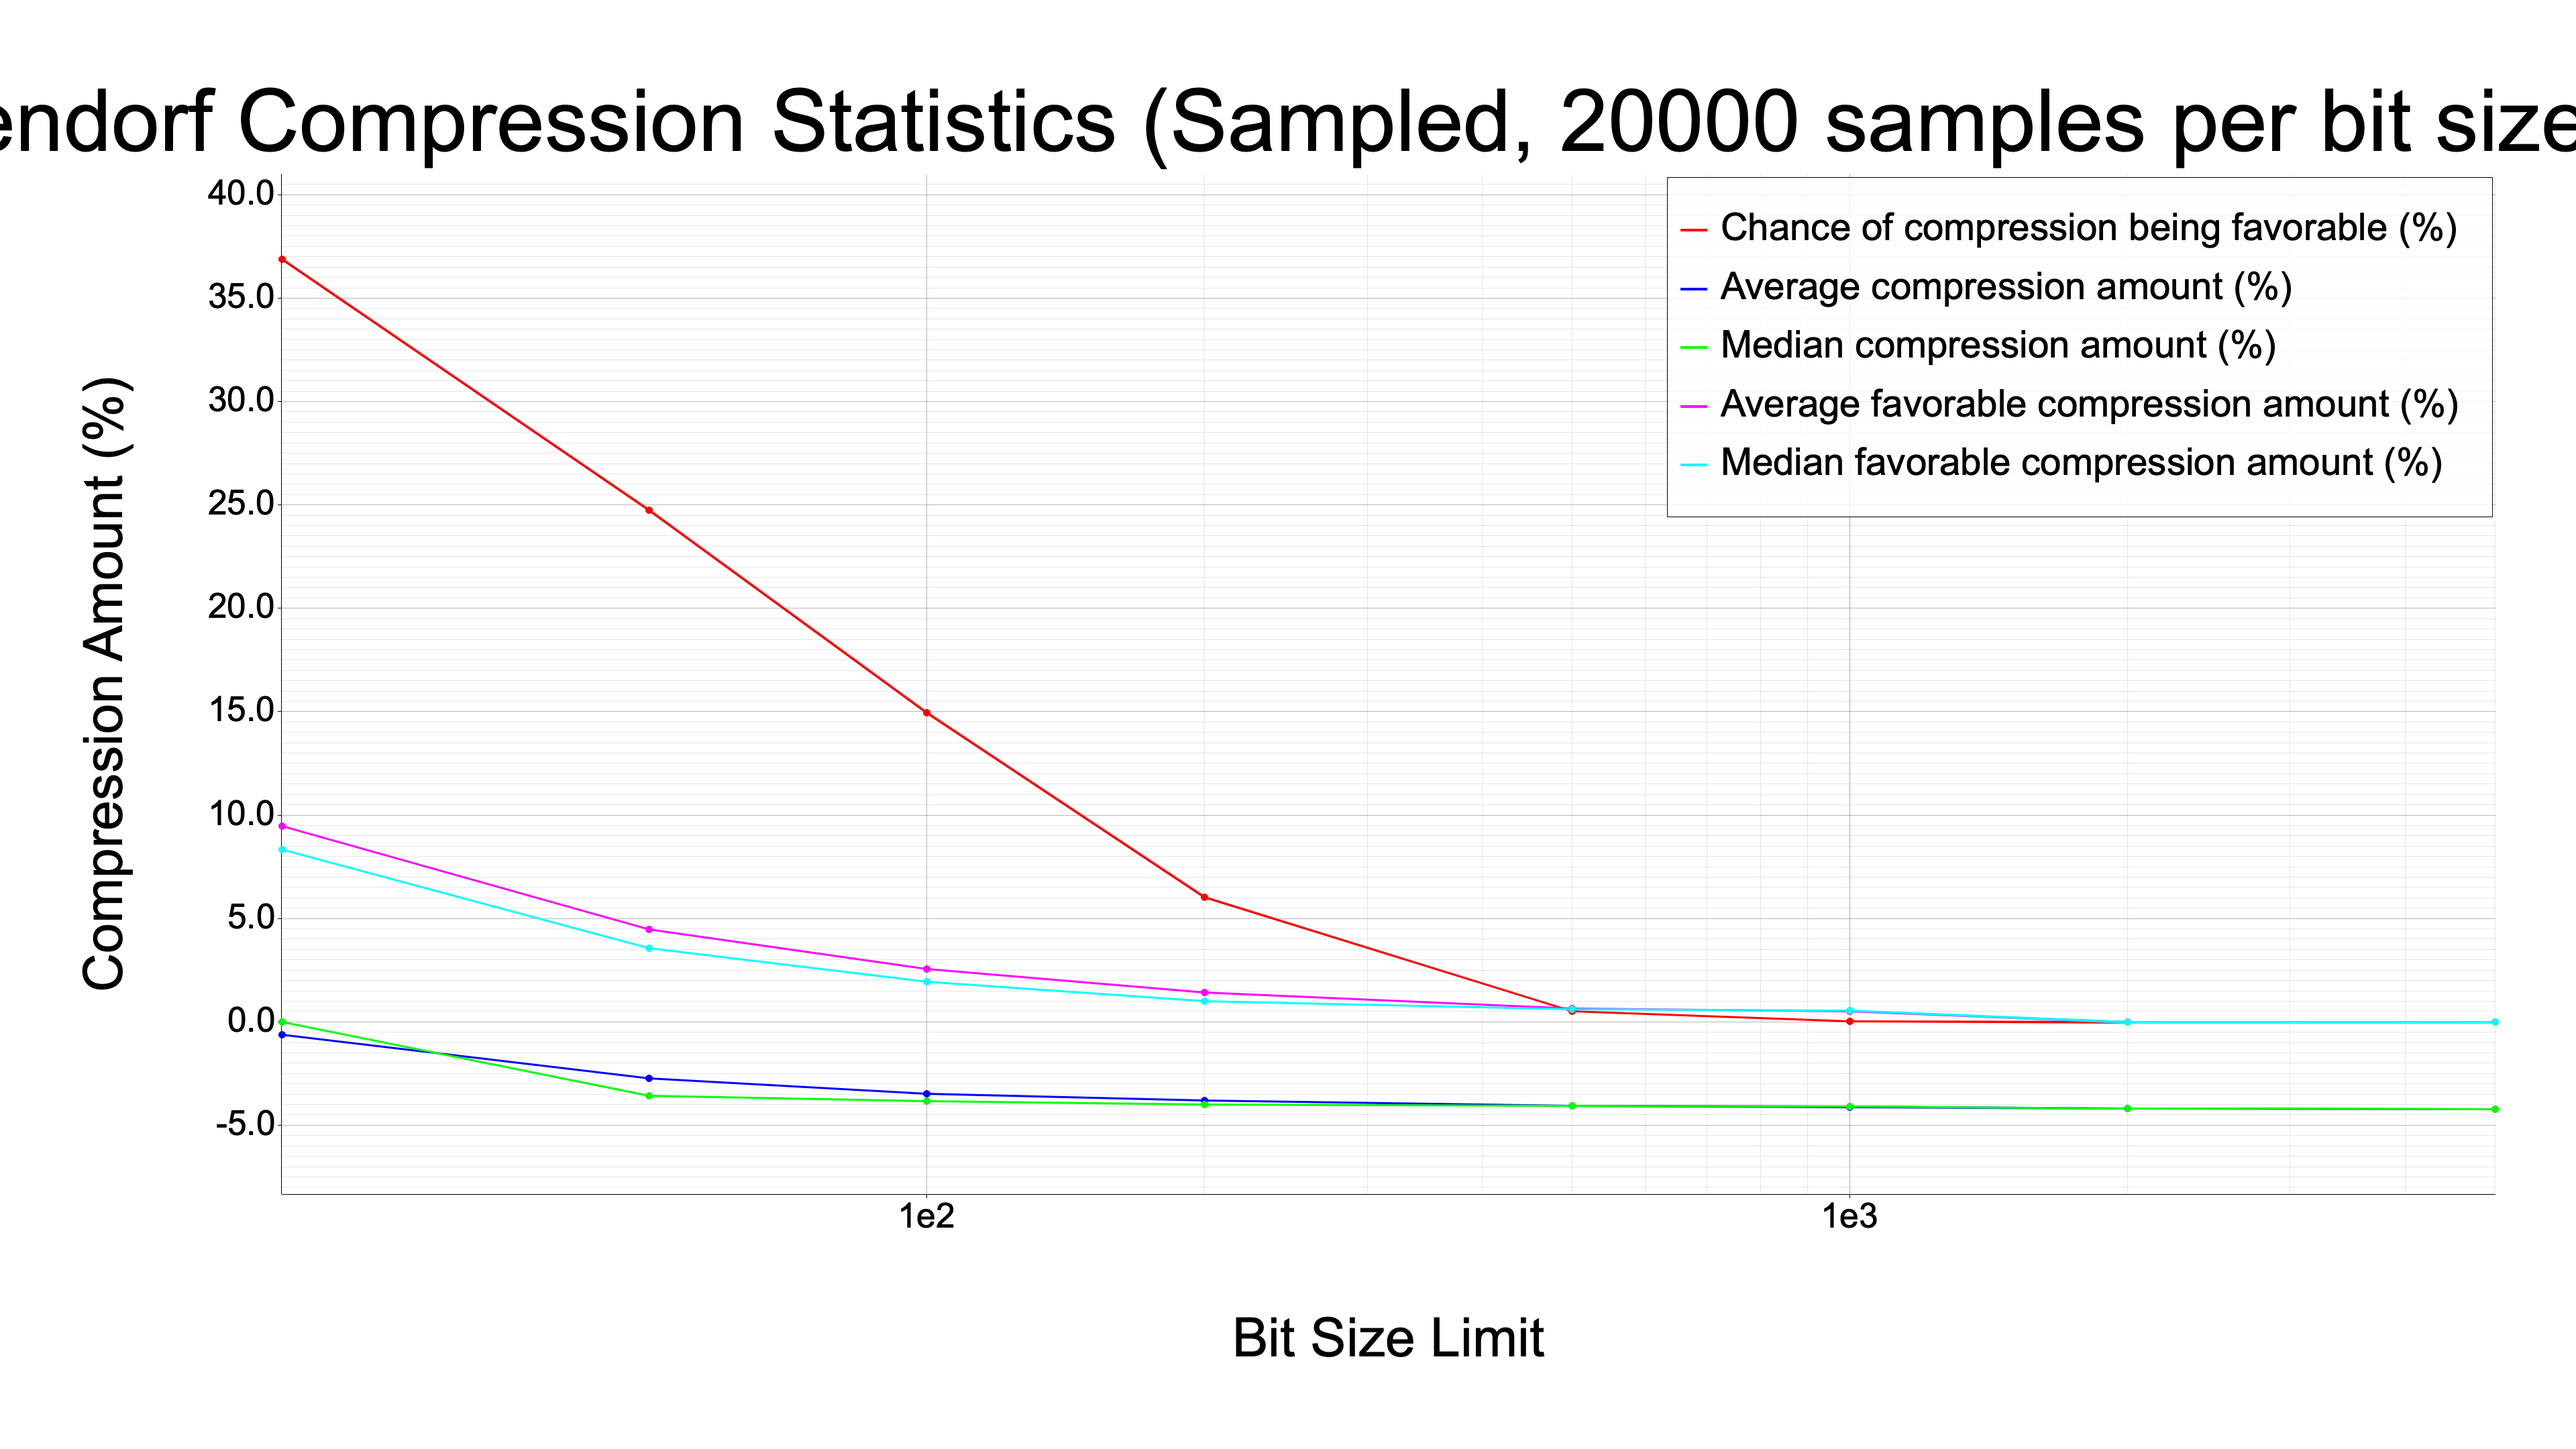
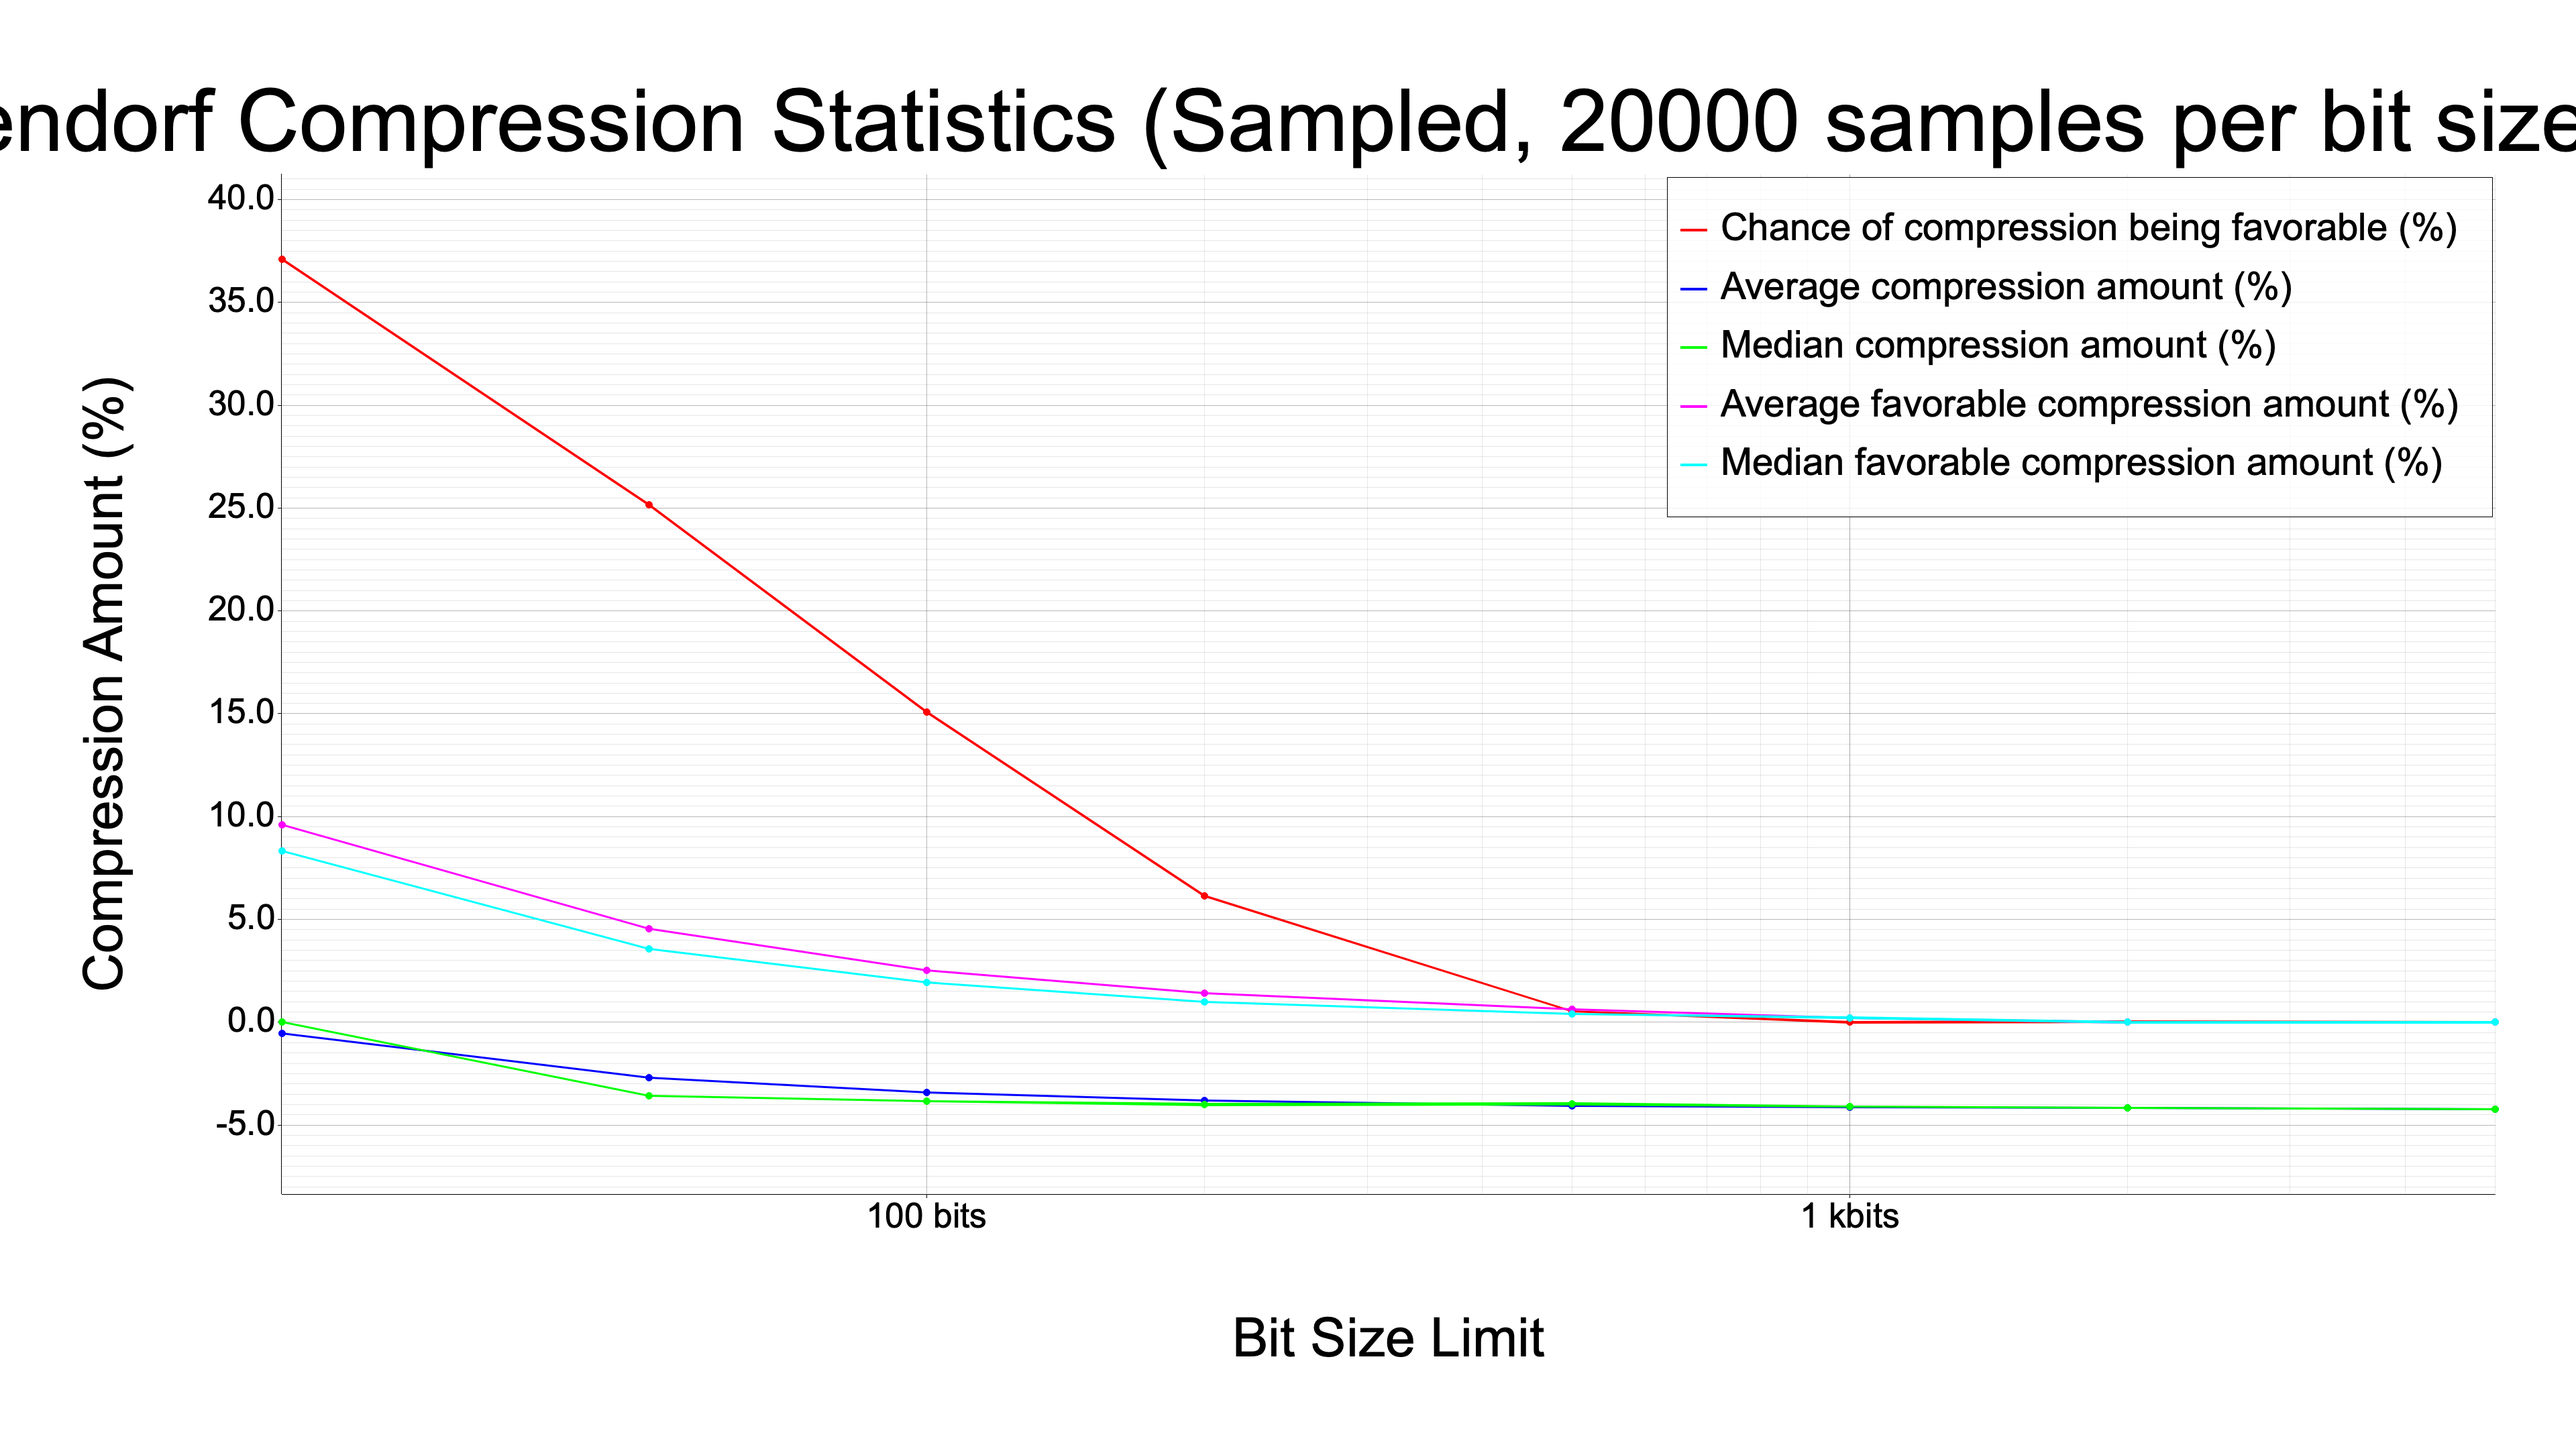
Refactor random byte generation and enhance reproducibility in `generate_statistics.rs`
- Updated the random byte generation function to accept a mutable reference to a seeded `StdRng`, ensuring reproducible results.
- Introduced a constant for the random number generator seed.
- Modified x-axis labeling in plots to improve readability by formatting large numbers in a more user-friendly manner.
- Regenerated compression statistics plot and updated the corresponding CSV data for improved accuracy.

diff --git a/src/bin/generate_statistics.rs b/src/bin/generate_statistics.rs
@@ -13,7 +13,7 @@
 use plotters::prelude::*;
 
 use num_bigint::BigUint;
-use rand::Rng;
+use rand::{rngs::StdRng, Rng, SeedableRng};
 use std::{cmp::Ordering, fs, path::Path, time::Instant};
 use zeckendorf_rs::zeckendorf_compress_be;
 
@@ -38,6 +38,9 @@ const INPUT_LIMITS: [u64; 5] = [10, 100, 1_000, 10_000, 100_000];
 // Sampled statistics configuration
 const BIT_SIZE_LIMITS: [u64; 8] = [20, 50, 100, 200, 500, 1_000, 2_000, 5_000];
 const SAMPLES_PER_BIT_SIZE: u64 = 20_000;
+
+// Seed for the random number generator to ensure reproducible results
+const RNG_SEED: u64 = 42;
 
 #[derive(Debug, Clone)]
 struct CompressionStats {
@@ -303,9 +306,7 @@ fn compression_amount_percent_bytes(data: &[u8]) -> Option<f64> {
 }
 
 /// Generates a random bytes array with roughly the specified number of bits (the number of bits is rounded up to the nearest byte).
-fn generate_random_bytes_of_roughly_bit_size(bit_size: u64) -> Vec<u8> {
-    let mut rng = rand::rng();
-
+fn generate_random_bytes_of_roughly_bit_size(bit_size: u64, rng: &mut StdRng) -> Vec<u8> {
     // Generate random bytes to cover the bit size
     let num_bytes = ((bit_size + 7) / 8) as usize;
     let mut bytes = vec![0u8; num_bytes];
@@ -316,11 +317,12 @@ fn generate_random_bytes_of_roughly_bit_size(bit_size: u64) -> Vec<u8> {
 
 fn gather_sampled_stats(bit_size_limit: u64, num_samples: u64) -> CompressionStats {
     let start_time = Instant::now();
+    let mut rng = StdRng::seed_from_u64(RNG_SEED);
     let mut compression_amounts = Vec::new();
     let mut maybe_best_compression_amount: Option<f64> = None;
 
     for _ in 0..num_samples {
-        let random_data = generate_random_bytes_of_roughly_bit_size(bit_size_limit);
+        let random_data = generate_random_bytes_of_roughly_bit_size(bit_size_limit, &mut rng);
         let Some(compression_amount) = compression_amount_percent_bytes(&random_data) else {
             continue; // If the compression is not possible, skip this sample
         };
@@ -745,19 +747,11 @@ fn plot_sampled_statistics(
     let axis_tick_style =
         TextStyle::from(("sans-serif", AXIS_TICK_FONT_SIZE).into_font()).color(&BLACK);
 
-    // Custom formatter for x-axis labels in scientific notation
-    let x_label_formatter = |x: &f64| {
-        if *x == 0.0 {
-            "0".to_string()
+    let x_label_bits_formatter = |x: &f64| {
+        if *x >= 1000.0 {
+            format!("{:.0} kbits", x / 1000.0)
         } else {
-            let exponent = x.log10().floor() as i32;
-            let mantissa = x / 10_f64.powi(exponent);
-            let rounded_mantissa = mantissa.round();
-            if (mantissa - rounded_mantissa).abs() < 1e-10 {
-                format!("{}e{}", rounded_mantissa as i64, exponent)
-            } else {
-                format!("{:.1}e{}", mantissa, exponent)
-            }
+            format!("{:.0} bits", x)
         }
     };
 
@@ -765,7 +759,7 @@ fn plot_sampled_statistics(
         .configure_mesh()
         .x_desc("Bit Size Limit")
         .y_desc("Compression Amount (%)")
-        .x_label_formatter(&x_label_formatter)
+        .x_label_formatter(&x_label_bits_formatter)
         .label_style(axis_tick_style)
         .axis_desc_style(axis_label_style)
         .draw()?;
